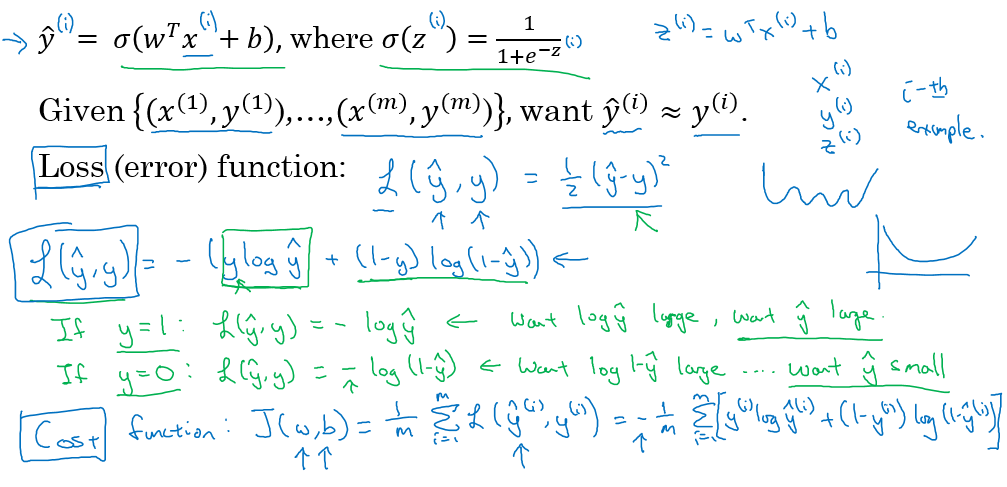
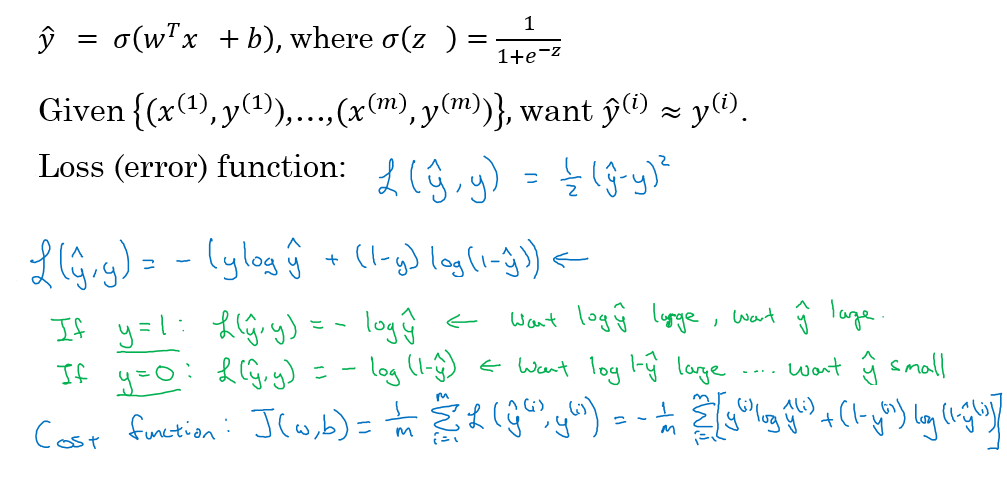
commit

diff --git a/Deeplearning_ai/week2.md b/Deeplearning_ai/week2.md
@@ -14,3 +14,9 @@
 - x값이 주어졌을 때, y=1일 확률을 계산하는 과정이 필요하며 이 값을 y^ 이라 한다.
 - y^을 1차 선형 식으로 `wx+b`와 같이 표현할 수 있고 이 값을 0~1사이로 만들기 위해 활성화함수를 사용한다. 위의 예시는 Sigmoid함수를 적용한 것이다.
 - parameter인 w와 b는 나누어 표현하는 것이 좋다. 오른쪽의 표현방법은 w와 b를 한 개의 벡터로 나타낸 것이며 사용하지 않는다.
+## Cost Function
+![Cost Function](./img/week2_04.PNG)  
+- Loss function을 정의할 때, `\\(frac { 1 }{ 2 } { (\hat { y } -y) }^{ 2 }\\)` 으로 한다면 경사하강법 실행 시 local minimun에 빠지기 쉽다.
+- 따라서 Loss function은 `\\(L (\hat { y } ,y)\quad =\quad -(y\log { \hat { y }  } +(1-y)\log { (1-\hat { y } )) }\\) ` 으로 정의한다.
+- 손실함수를 작게 만드는 것이 목표이므로, y=1인 경우 y hat값은 커져야 하고 y=0인 경우 y hat값은 작아져야 한다.
+- Cost function은 각 학습 데이터의 Loss function을 더한 값이며 `J(w,b)` 로 나타낸다.
